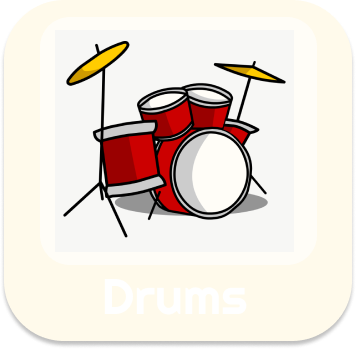
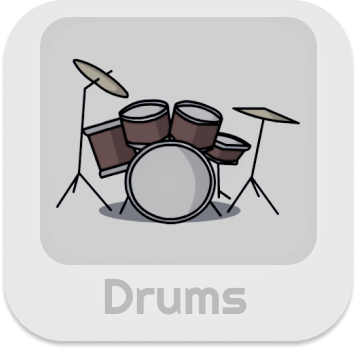
Nullified buttons that are not fully developed yet

diff --git a/src/components/Instruments.js b/src/components/Instruments.js
@@ -22,10 +22,10 @@ const Instruments = () => {
                 )}>
                 <img className='instrumentImg' src={ Piano } alt='Piano'/>
             </button>
-             <button className='btn imgBtns'><img className='instrumentImg' src={ Guitar } alt='Guitar'/></button>
-             <button className='btn imgBtns'><img className='instrumentImg' src={ Drums } alt='Drums'/></button> 
-             {/* fix drums image */}
-             <button className='btn imgBtns'><img className='instrumentImg' src={ BeatPad } alt='Beat Pad'/></button>
+            {/* remove bwBtn class when instrument is functional */}
+             <button className='btn imgBtns bwBtn'><img className='instrumentImg' src={ Guitar } alt='Guitar'/></button>
+             <button className='btn imgBtns bwBtn'><img className='instrumentImg' src={ Drums } alt='Drums'/></button> 
+             <button className='btn imgBtns bwBtn'><img className='instrumentImg' src={ BeatPad } alt='Beat Pad'/></button>
         </div>
     </div>
   )

diff --git a/src/App.js b/src/App.js
@@ -1,6 +1,5 @@
 import { BrowserRouter as Router, Routes, Route } from 'react-router-dom';
 import StartScreen from './components/StartScreen';
-import SongChoice from './components/SongChoice';
 import Instruments from './components/Instruments';
 import PianoNotes from './components/PianoNotes';
 import PianoChords from './components/PianoChords';
@@ -12,7 +11,6 @@ function App() {
     <Router>
       <Routes> 
         <Route path="/" element={<StartScreen />} />
-        <Route path="/TutorialSongChoices" element={<SongChoice />} />
         <Route path='/InstrumentChoices' element={<Instruments />} />
         <Route path='/PianoNotes' element={<PianoNotes />} />
         <Route path='/PianoChords' element={<PianoChords />} />

diff --git a/src/components/StartScreen.js b/src/components/StartScreen.js
@@ -14,19 +14,19 @@ const Header = () => {
       <h1 className='title' id='subtitle'>Let's make some music!</h1>
 
       <div>
-        <button className="btn modeOptions" onClick={() => (
-          navigate('/TutorialSongChoices')
-        )}>
-          TUTORIAL
-        </button>
-      </div>
-        <div>
             <button className="btn modeOptions" onClick={() => (
               navigate('/InstrumentChoices')
             )}>
               FREE STYLE
             </button>
-        </div>
+      </div>
+
+      <div>
+        <button className="btn modeOptions" id="tutorialOptn">
+          TUTORIAL
+        </button>
+      </div>
+       
     </div>   
   )
 }

diff --git a/src/index.css b/src/index.css
@@ -71,6 +71,12 @@ body {
   font-size: 50px;
 }
 
+#tutorialOptn{
+  background: rgb(226, 226, 226);
+  cursor: auto;
+  /* Temporarily grey since not this mode is not developed yet */
+}
+
 .choices {
   background-image: url('./components/photos/chooseASong.png');
   background-color: white;
@@ -151,6 +157,10 @@ body {
 .imgBtns {
   background: none;
   height: 100px;
+}
+
+.bwBtn{
+  cursor: auto;
 }
 
 .instrumentImg {

diff --git a/src/components/SongChoice.js b/src/components/SongChoice.js
@@ -6,6 +6,7 @@ import TwinkleStar from './photos/Twinkle Twinkle Little Star.png'
 import HotCrossBuns from './photos/Hot cross buns.png'
 import MaryLamb from './photos/Mary Lamb.png'
 
+// To be developed - all buttons are placeholders. Not actual page on app yet.
 const SongChoice = () => {
   let navigate = useNavigate();
 

diff --git a/README.md b/README.md
@@ -37,6 +37,8 @@ _Music4Kids_ currently offers a virtual piano keyboard that prompts the user to 
 
 It was built using the JavaScript libraries React.js, Tone.js, and p5.js. React.js was used to build the user interface of the application, with each page being a react component. The start screen, song tutorial menu, instrument menu, and piano settings pages are all functional components. While the piano notes and chords pages are class components to ease the process of integrating p5 sketches into these pages. p5.js was used to create the piano keyboard illustration using [this method.](https://dev.to/christiankastner/integrating-p5-js-with-react-i0d) The audio for the piano notes/chords was recorded in FL Studio and implemented into the application using Tone.js' 'Player' function to play custom audio files on demand.
 
+![Using Music4Kids with P300 Control](/src/components/photos/P300%20Music4Kids%20Demo.gif)
+
 To interact with _Music4Kids_ using P300-control, _Mindset_, a P300 software provided by collaborators at the University of Toronto, was used. _Mindset_ works by detecting the buttons on a given page and overlaying a flashing stimulus over them. By connecting a BCI headset to the system, P300 control can be achieved.
 
 ### _Testing Music4Kids_
